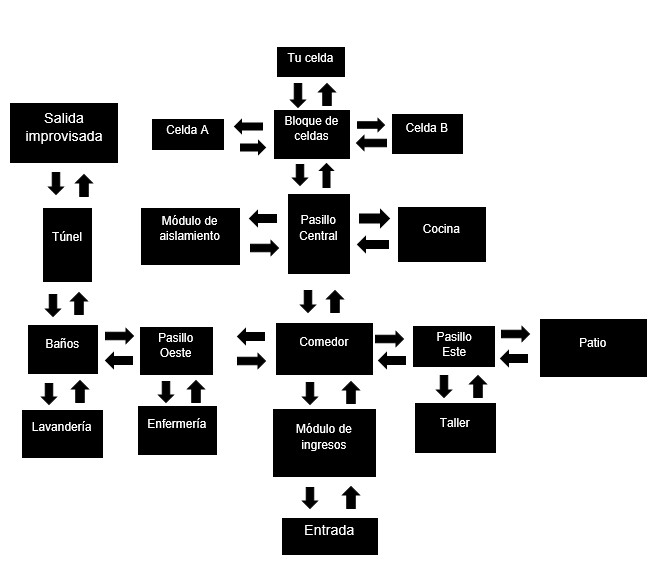
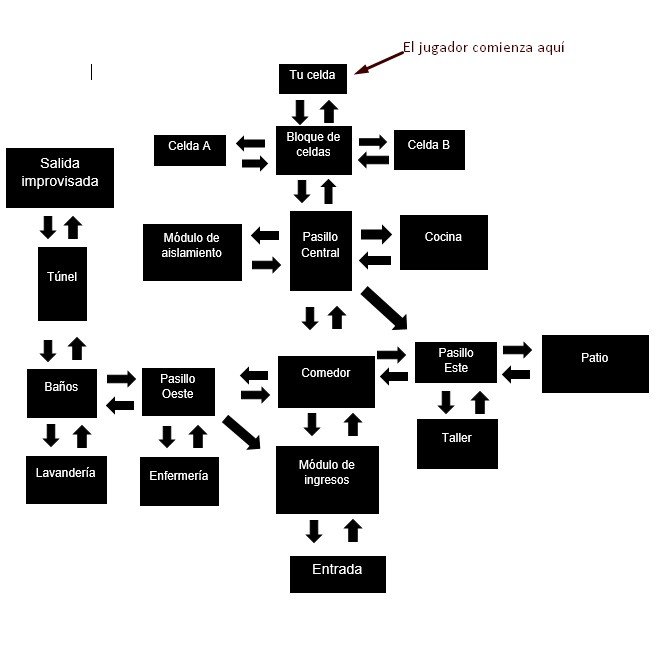
04.Añadidas las alidas sureste

diff --git a/Room.java b/Room.java
@@ -19,7 +19,7 @@ public class Room
     public Room southExit;
     public Room eastExit;
     public Room westExit;
-
+    public Room southEastExit;
     /**
      * Create a room described "description". Initially, it has
      * no exits. "description" is something like "a kitchen" or
@@ -39,7 +39,7 @@ public class Room
      * @param south The south exit.
      * @param west The west exit.
      */
-    public void setExits(Room north, Room east, Room south, Room west) 
+    public void setExits(Room north, Room east, Room south, Room west, Room southEast) 
     {
         if(north != null)
             northExit = north;
@@ -49,6 +49,8 @@ public class Room
             southExit = south;
         if(west != null)
             westExit = west;
+        if(southEast != null)
+            southEastExit = southEast;    
     }
 
     /**
